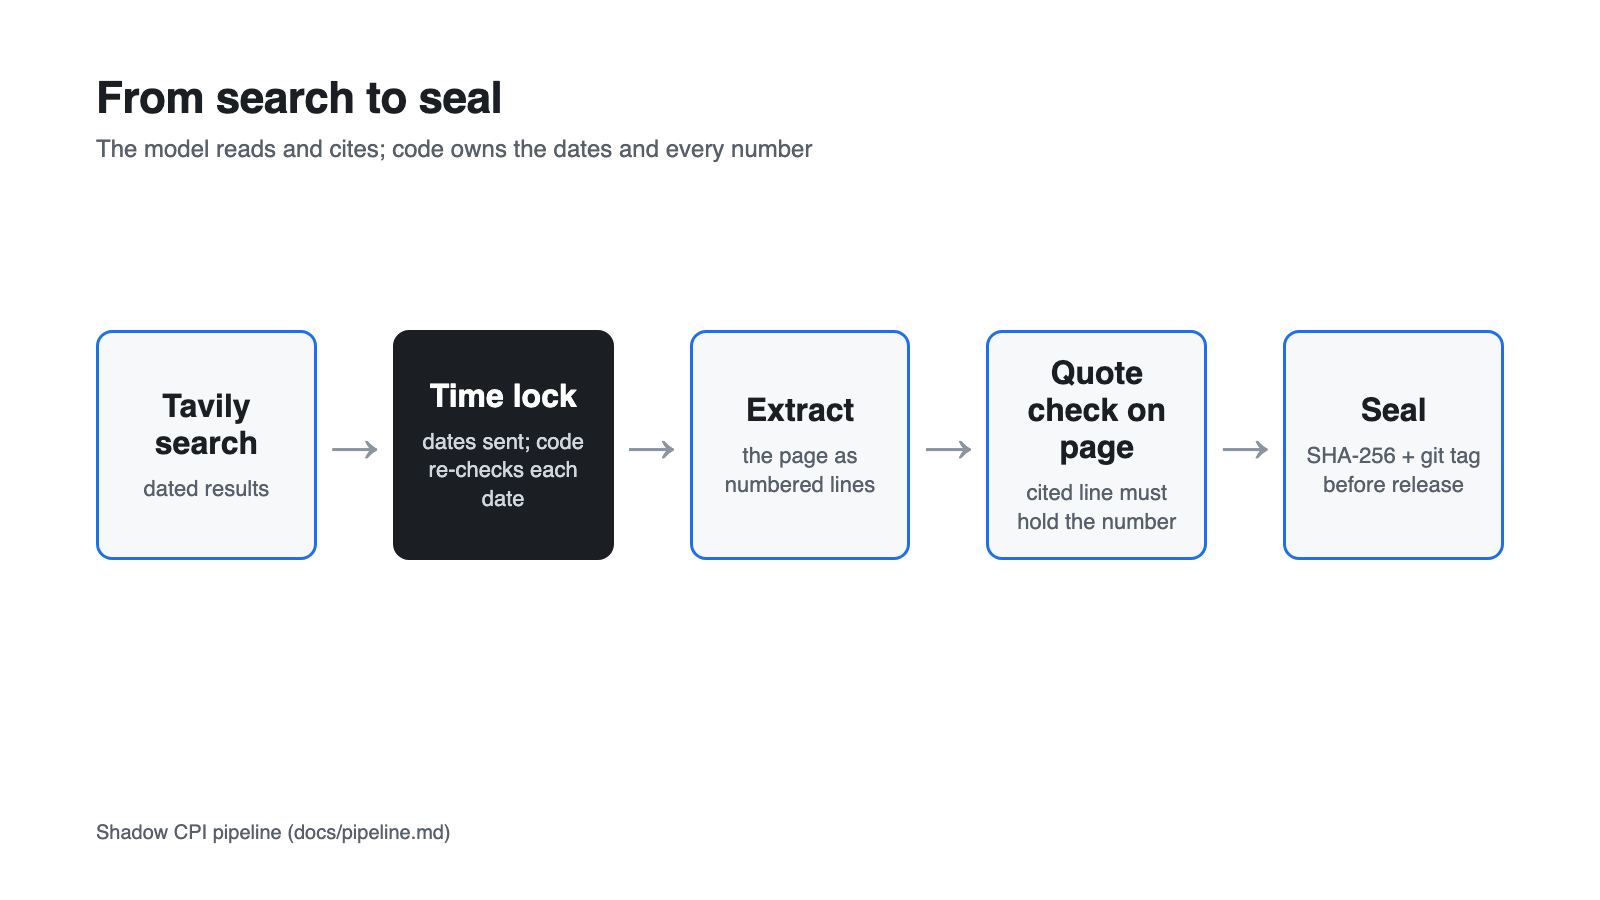
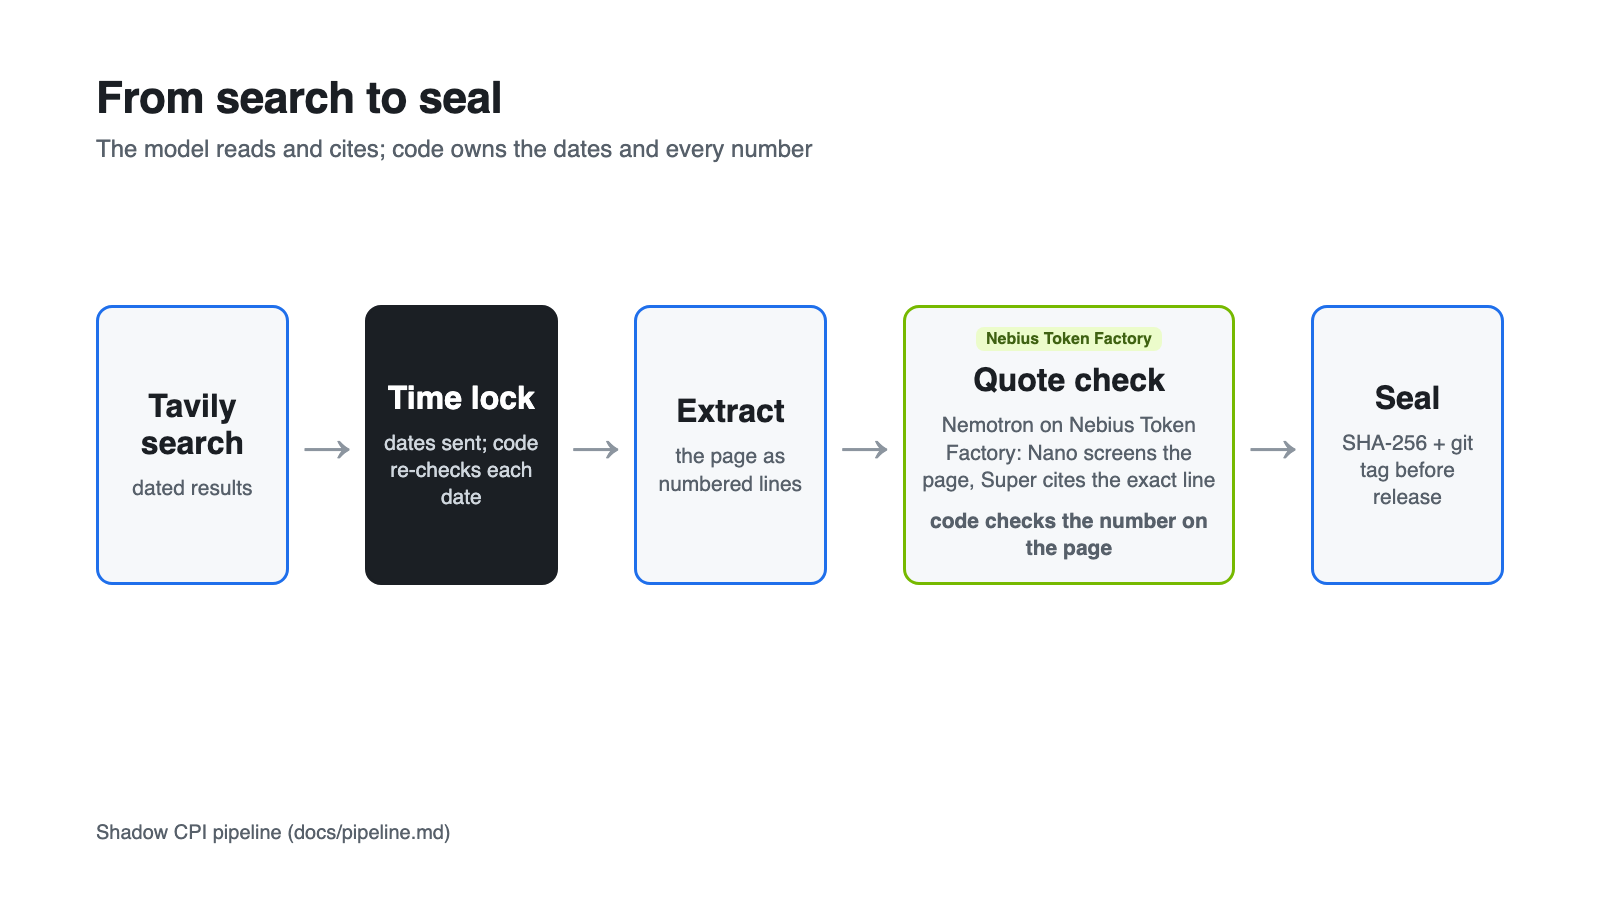
Name Nemotron on Nebius Token Factory in the flow diagram, README, Devpost, app first screen and pipeline doc (display only)

diff --git a/tools/build_gallery.py b/tools/build_gallery.py
@@ -79,21 +79,45 @@ capture is {day_month(ev['first_capture'])}, after the cutoff, so it refuses rat
 </body></html>"""
 
 
+# The quote-check box of the flow diagram. docs/templates/gallery.md's caption repeats these words, and
+# tests/test_gallery_flow.py checks that the box names Nemotron and Nebius. No model IDs: they change on 9 Nov.
+QUOTE_CHECK_TITLE = "Quote check"
+QUOTE_CHECK_MODEL = "Nemotron on Nebius Token Factory: Nano screens the page, Super cites the exact line"
+QUOTE_CHECK_CODE = "code checks the number on the page"
+QUOTE_CHECK_LABEL = "Nebius Token Factory"
+
+
+def flow_steps():
+    return [("Tavily search", "dated results"), ("Time lock", "dates sent; code re-checks each date"),
+            ("Extract", "the page as numbered lines"), (QUOTE_CHECK_TITLE, QUOTE_CHECK_MODEL),
+            ("Seal", "SHA-256 + git tag before release")]
+
+
 def flow_html():
-    steps = [("Tavily search", "dated results"), ("Time lock", "dates sent; code re-checks each date"),
-             ("Extract", "the page as numbered lines"), ("Quote check on page", "cited line must hold the number"),
-             ("Seal", "SHA-256 + git tag before release")]
-    boxes = "".join(
-        f'<div class="step{" lock" if t == "Time lock" else ""}"><div class="t">{html.escape(t)}</div><div class="d">{html.escape(d)}</div></div>'
-        + ('<div class="arrow">→</div>' if i < len(steps) - 1 else "") for i, (t, d) in enumerate(steps))
+    steps = flow_steps()
+
+    def box(t, d):
+        if t == QUOTE_CHECK_TITLE:
+            return (f'<div class="step wide"><div class="tag">{html.escape(QUOTE_CHECK_LABEL)}</div>'
+                    f'<div class="t">{html.escape(t)}</div><div class="d">{html.escape(d)}</div>'
+                    f'<div class="d code">{html.escape(QUOTE_CHECK_CODE)}</div></div>')
+        return (f'<div class="step{" lock" if t == "Time lock" else ""}"><div class="t">{html.escape(t)}</div>'
+                f'<div class="d">{html.escape(d)}</div></div>')
+
+    boxes = "".join(box(t, d) + ('<div class="arrow">→</div>' if i < len(steps) - 1 else "")
+                    for i, (t, d) in enumerate(steps))
     return f"""<html><head><style>{STYLE}
-.row {{ position: absolute; left: 96px; right: 96px; top: 330px; display: flex; align-items: center; }}
-.step {{ flex: 1; height: 230px; border: 3px solid #1f6feb; border-radius: 16px; padding: 28px 20px;
+.row {{ position: absolute; left: 96px; right: 96px; top: 305px; display: flex; align-items: center; }}
+.step {{ flex: 1; height: 280px; border: 3px solid #1f6feb; border-radius: 16px; padding: 28px 16px;
          display: flex; flex-direction: column; justify-content: center; text-align: center; background: #f6f8fa; }}
+.wide {{ flex: 1.9; border-color: #76b900; }}
+.tag {{ align-self: center; font-size: 16px; font-weight: 700; color: #3f6212; background: #ecfccb;
+        border-radius: 8px; padding: 3px 10px; margin-bottom: 10px; }}
+.code {{ font-weight: 700; color: #1b1f24; margin-top: 10px; }}
 .lock {{ border-color: #1b1f24; background: #1b1f24; color: #fff; }}
 .lock .d {{ color: #d0d7de; }}
 .t {{ font-size: 32px; font-weight: 700; }}
-.d {{ font-size: 22px; color: #57606a; margin-top: 14px; line-height: 1.3; }}
+.d {{ font-size: 21px; color: #57606a; margin-top: 14px; line-height: 1.3; }}
 .arrow {{ font-size: 48px; color: #8c959f; padding: 0 14px; }}
 </style></head><body>
 <h1>From search to seal</h1>

diff --git a/tests/test_gallery_flow.py b/tests/test_gallery_flow.py
@@ -1,0 +1,24 @@
+"""The gallery's flow diagram must say where Nemotron runs (tools/build_gallery.py draws it; no browser needed here)."""
+import sys
+from pathlib import Path
+
+sys.path.insert(0, str(Path(__file__).resolve().parent.parent / "tools"))
+import build_gallery as bg  # noqa: E402
+
+
+def test_quote_check_box_names_nemotron_and_nebius():
+    box = dict(bg.flow_steps())[bg.QUOTE_CHECK_TITLE]
+    assert "Nemotron" in box and "Nebius" in box
+    assert "Nano screens the page" in box and "Super cites the exact line" in box
+    page = bg.flow_html()
+    assert bg.QUOTE_CHECK_CODE in page and bg.QUOTE_CHECK_LABEL in page
+
+
+def test_flow_diagram_has_no_model_ids():
+    assert "nvidia/" not in bg.flow_html()
+
+
+def test_gallery_caption_matches_the_box():
+    cap = " ".join((Path(bg.ROOT) / "docs/templates/gallery.md").read_text(encoding="utf-8").split())
+    assert bg.QUOTE_CHECK_MODEL in cap
+    assert bg.QUOTE_CHECK_CODE in cap

diff --git a/app_pages/leak_demo.py b/app_pages/leak_demo.py
@@ -426,6 +426,7 @@ interval_chart(data["totals"])
 update_lines(data["totals"])
 provenance("results/leak_demo.json", "built_utc")
 links()
+st.caption("Pages screened and quotes cited by NVIDIA Nemotron on Nebius Token Factory; code checks every number.")
 how_we_know(data)
 with st.container(key="use-it"):
     st.markdown("**Use it**")

diff --git a/docs/templates/README.md b/docs/templates/README.md
@@ -5,6 +5,8 @@
 **An AI agent that searches the past without cheating: it uses Tavily inside a time lock it cannot move, checks every
 quote on its source page, and seals India's inflation forecast before the government publishes it.**
 
+Pages are screened and quotes cited by NVIDIA Nemotron (Nano and Super) on Nebius Token Factory; code checks every number.
+
 | Leaks, measured (pre-registered initial pass) | No dates | Dates + filter |
 |---|---|---|
 | Date test ({{dt_cases}} cases) | **{{dt_nodates}} of {{dt_cases}}** (Wilson {{dt_nodates_w}}) | **{{dt_dated}} of {{dt_cases}}** (Wilson {{dt_dated_w}}) |
@@ -319,7 +321,7 @@ comparable.
 ```mermaid
 flowchart LR
     S["Tavily Search<br/>proposes pages, dates locked"] --> X["Tavily Extract<br/>reads the page"]
-    X --> N["Nemotron cites a numbered line;<br/>code checks the number is in it"]
+    X --> N["Nemotron on Nebius Token Factory:<br/>Nano screens the page, Super cites a numbered line;<br/>code checks the number is in it"]
     N --> C["Plain code computes<br/>(index levels x official weights)"]
     C --> SEAL["Seal: canonical JSON +<br/>SHA-256 + git tag"]
 ```

diff --git a/README.md b/README.md
@@ -6,6 +6,8 @@
 **An AI agent that searches the past without cheating: it uses Tavily inside a time lock it cannot move, checks every
 quote on its source page, and seals India's inflation forecast before the government publishes it.**
 
+Pages are screened and quotes cited by NVIDIA Nemotron (Nano and Super) on Nebius Token Factory; code checks every number.
+
 | Leaks, measured (pre-registered initial pass) | No dates | Dates + filter |
 |---|---|---|
 | Date test (20 cases) | **9 of 20** (Wilson 26–66%) | **0 of 20** (Wilson 0–16%) |
@@ -336,7 +338,7 @@ comparable.
 ```mermaid
 flowchart LR
     S["Tavily Search<br/>proposes pages, dates locked"] --> X["Tavily Extract<br/>reads the page"]
-    X --> N["Nemotron cites a numbered line;<br/>code checks the number is in it"]
+    X --> N["Nemotron on Nebius Token Factory:<br/>Nano screens the page, Super cites a numbered line;<br/>code checks the number is in it"]
     N --> C["Plain code computes<br/>(index levels x official weights)"]
     C --> SEAL["Seal: canonical JSON +<br/>SHA-256 + git tag"]
 ```

diff --git a/docs/gallery/README.md b/docs/gallery/README.md
@@ -39,8 +39,9 @@ returns **no as-of copy** instead of today's text. A demo, n=1, not a measuremen
 `results/asof_demo_r196.json`.
 
 ## From search to seal
-![Flow: Tavily search, time lock, Extract, quote check on page, seal](4_flow.png)
+![Flow: Tavily search, time lock, Extract, quote check by Nemotron on Nebius Token Factory with a code check on the number, seal](4_flow.png)
 
 **The pipeline.** Tavily Search proposes dated pages; the time lock sends the dates and code re-checks each one;
-Extract returns the page as numbered lines; Nemotron cites a line and code checks the number is in it; the
+Extract returns the page as numbered lines; the quote-check box reads "Nemotron on Nebius Token Factory: Nano screens
+the page, Super cites the exact line", with "code checks the number on the page" under it; the
 forecast is sealed with its SHA-256 and a git tag before the official release. Details: `docs/pipeline.md`.

diff --git a/docs/templates/gallery.md b/docs/templates/gallery.md
@@ -38,8 +38,9 @@ returns **{{asof_reason}}** instead of today's text. A {{asof_label}} ({{asof_cr
 `results/asof_demo_r196.json`.
 
 ## From search to seal
-![Flow: Tavily search, time lock, Extract, quote check on page, seal](4_flow.png)
+![Flow: Tavily search, time lock, Extract, quote check by Nemotron on Nebius Token Factory with a code check on the number, seal](4_flow.png)
 
 **The pipeline.** Tavily Search proposes dated pages; the time lock sends the dates and code re-checks each one;
-Extract returns the page as numbered lines; Nemotron cites a line and code checks the number is in it; the
+Extract returns the page as numbered lines; the quote-check box reads "Nemotron on Nebius Token Factory: Nano screens
+the page, Super cites the exact line", with "code checks the number on the page" under it; the
 forecast is sealed with its SHA-256 and a git tag before the official release. Details: `docs/pipeline.md`.

diff --git a/docs/templates/devpost.md b/docs/templates/devpost.md
@@ -13,6 +13,8 @@ Reuse: `timelocked_search`, `extract_as_of`, Colab leak check.
 An AI agent that searches the past without cheating: it uses Tavily inside a time lock it cannot move, checks every
 quote on its source page, and seals India's inflation forecast before the government publishes it.
 
+Pages are screened and quotes cited by NVIDIA Nemotron (Nano and Super) on Nebius Token Factory; code checks every number.
+
 ## Short description
 <!-- short:start -->
 Can a search engine keep the past in the past? We measured Tavily's date controls on {{dt_cases}} replay cases

diff --git a/docs/devpost_draft.md b/docs/devpost_draft.md
@@ -14,6 +14,8 @@ Reuse: `timelocked_search`, `extract_as_of`, Colab leak check.
 An AI agent that searches the past without cheating: it uses Tavily inside a time lock it cannot move, checks every
 quote on its source page, and seals India's inflation forecast before the government publishes it.
 
+Pages are screened and quotes cited by NVIDIA Nemotron (Nano and Super) on Nebius Token Factory; code checks every number.
+
 ## Short description
 <!-- short:start -->
 Can a search engine keep the past in the past? We measured Tavily's date controls on 20 replay cases

diff --git a/docs/pipeline.md b/docs/pipeline.md
@@ -26,7 +26,7 @@ flowchart TD
 
     DIRECT["Logged direct download<br/>(fallback, counted in the report card)"]
 
-    subgraph NEM["Nemotron: extracts only"]
+    subgraph NEM["Nemotron on Nebius Token Factory: extracts only"]
         N_GATE["Small model: gatekeeper<br/>'does this page state an Indian price<br/>or an announced price change?'"]
         N_EXTRACT["Mid model: price quotes + price events<br/>cites a numbered line, never writes a quote"]
     end
